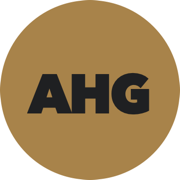
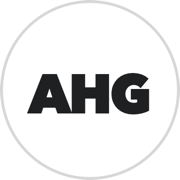
feat(identidad): iso AHG en blanco en vez de bronce; sin etiqueta 'Nueva' en Senzen

diff --git a/frontend/public/manual.html b/frontend/public/manual.html
@@ -20,7 +20,7 @@
 <style>
 /* ─────────────────────────────────────────────────────────
    Manual de Alfalca — hereda la identidad del sistema:
-   gris mate AHG #45484c con acento bronce #a8834a, Nunito para títulos, Inter para texto.
+   gris mate AHG #45484c con el iso en blanco, Nunito para títulos, Inter para texto.
    El acento cálido (dulce de leche) es propio del manual.
    ───────────────────────────────────────────────────────── */
 
@@ -150,7 +150,7 @@ a{ color: var(--violeta); }
 .marca{ display: flex; align-items: center; gap: 14px; }
 .iso{
   width: 46px; height: 46px; border-radius: 50%;
-  background: #a8834a; color: #1f2022;
+  background: #fff; color: #1f2022;
   display: grid; place-items: center;
   font-family: var(--display); font-weight: 800; font-size: 15px; letter-spacing: .04em;
   flex: 0 0 auto;
@@ -335,7 +335,7 @@ dl.glosario dd{ margin: 0; color: var(--tinta-2); font-size: 14.5px; }
 @media (max-width: 640px){ .mock-cuerpo{ grid-template-columns: minmax(0,1fr); } .mock-cuerpo .m-side{ display:none; } }
 .m-side{ background: var(--m-vio); padding: 12px 8px; color: #fff; }
 .m-side .m-marca{ display:flex; align-items:center; gap:8px; padding: 2px 6px 12px; border-bottom: 1px solid rgba(255,255,255,.12); margin-bottom: 8px; }
-.m-side .m-iso{ width: 22px; height: 22px; border-radius: 50%; background:#a8834a; color: #1f2022; display:grid; place-items:center; font-family: var(--display); font-weight: 800; font-size: 8px; }
+.m-side .m-iso{ width: 22px; height: 22px; border-radius: 50%; background:#fff; color: #1f2022; display:grid; place-items:center; font-family: var(--display); font-weight: 800; font-size: 8px; }
 .m-side .m-marca b{ font-family: var(--display); font-size: 11.5px; font-weight: 800; display:block; line-height:1.1; }
 .m-side .m-marca em{ font-style: normal; font-size: 7.5px; letter-spacing:.14em; text-transform: uppercase; color: rgba(255,255,255,.55); }
 .m-side .m-tit{ font-size: 8px; letter-spacing:.14em; text-transform: uppercase; color: rgba(255,255,255,.42); padding: 10px 8px 3px; font-weight: 700; }
@@ -522,7 +522,7 @@ table.m-tabla tr:last-child td{ border-bottom: 0; }
         <div class="mock" style="max-width:340px">
           <div class="mock-bar"><i></i><i></i><i></i><span>alfalca</span></div>
           <div style="padding:34px 26px; display:grid; gap:14px; justify-items:center; background:#ecebe7">
-            <div style="width:46px;height:46px;border-radius:50%;background:#a8834a;color:#1f2022;display:grid;place-items:center;font-family:var(--display);font-weight:800;font-size:14px">AHG</div>
+            <div style="width:46px;height:46px;border-radius:50%;background:#fff;border:1.5px solid rgba(0,0,0,.18);color:#1f2022;display:grid;place-items:center;font-family:var(--display);font-weight:800;font-size:14px">AHG</div>
             <div style="text-align:center">
               <div style="font-family:var(--display);font-weight:800;font-size:15px;color:#1F2937">Alfalca Holding Group</div>
               <div style="font-size:10.5px;color:#9C94A6">Ingresá con tu cuenta</div>

diff --git a/frontend/src/pages/Home.jsx b/frontend/src/pages/Home.jsx
@@ -12,7 +12,7 @@ import logoSenzen   from '../assets/marcas/senzen-blanco.png';
 const MARCAS = [
   { nombre: 'Entre Dos', rubro: 'Tiendas y cafetería', logo: logoEntreDos, fondo: '#000000' },
   { nombre: 'Kankay',    rubro: 'Retail',              logo: logoKankay,   fondo: '#000000' },
-  { nombre: 'Senzen',    rubro: 'Hogar',               logo: logoSenzen,   fondo: '#000000', alto: 68, nueva: true },
+  { nombre: 'Senzen',    rubro: 'Hogar',               logo: logoSenzen,   fondo: '#000000', alto: 68 },
 ];
 
 const DIAS  = ['domingo', 'lunes', 'martes', 'miércoles', 'jueves', 'viernes', 'sábado'];
@@ -146,11 +146,6 @@ export default function Home() {
                 <p className="font-bold text-ahg-text" style={{ fontFamily: 'Nunito, sans-serif' }}>{m.nombre}</p>
                 <p className="text-xs text-ahg-text/50">{m.rubro}</p>
               </div>
-              {m.nueva && (
-                <span className="text-[10px] font-semibold uppercase tracking-wider text-ahg-bronce bg-ahg-bronce/10 rounded-full px-2 py-0.5">
-                  Nueva
-                </span>
-              )}
             </div>
           </div>
         ))}

diff --git a/frontend/index.html b/frontend/index.html
@@ -4,9 +4,9 @@
     <meta charset="UTF-8" />
     <meta name="viewport" content="width=device-width, initial-scale=1.0" />
     <title>Alfalca Holding Group</title>
-    <link rel="icon" type="image/svg+xml" href="/favicon.svg?v=2" />
-    <link rel="icon" type="image/png" sizes="32x32" href="/favicon-32.png?v=2" />
-    <link rel="apple-touch-icon" href="/apple-touch-icon.png?v=2" />
+    <link rel="icon" type="image/svg+xml" href="/favicon.svg?v=3" />
+    <link rel="icon" type="image/png" sizes="32x32" href="/favicon-32.png?v=3" />
+    <link rel="apple-touch-icon" href="/apple-touch-icon.png?v=3" />
     <link rel="preconnect" href="https://fonts.googleapis.com" />
     <link rel="preconnect" href="https://fonts.gstatic.com" crossorigin />
     <link href="https://fonts.googleapis.com/css2?family=Inter:wght@400;500;600;700&family=Nunito:wght@400;500;600;700;800&display=swap" rel="stylesheet" />

diff --git a/frontend/src/pages/Login.jsx b/frontend/src/pages/Login.jsx
@@ -31,7 +31,7 @@ export default function Login() {
     <div className="min-h-screen flex items-center justify-center bg-ahg-bg px-4">
       <div className="w-full max-w-sm">
         <div className="text-center mb-8">
-          <img src={logo} alt="AHG" className="w-16 h-16 mx-auto mb-4 rounded-full" />
+          <img src={logo} alt="AHG" className="w-16 h-16 mx-auto mb-4 rounded-full shadow-sm" />
           <h1 className="text-2xl font-bold text-ahg-text" style={{ fontFamily: 'Nunito, sans-serif' }}>Alfalca Holding Group</h1>
           <p className="text-ahg-text/50 text-sm mt-1">Ingresá con tu cuenta</p>
         </div>

diff --git a/frontend/src/pages/red/RedDashboard.jsx b/frontend/src/pages/red/RedDashboard.jsx
@@ -79,8 +79,8 @@ export default function RedDashboard() {
           </div>
 
           {badgeTexto ? (
-            <span className="flex items-center gap-1.5 bg-ahg-bronce text-white text-xs font-semibold px-3 py-1.5 rounded-full flex-shrink-0">
-              <span className="w-1.5 h-1.5 rounded-full bg-white animate-pulse" />
+            <span className="flex items-center gap-1.5 bg-white text-ahg-text text-xs font-semibold px-3 py-1.5 rounded-full flex-shrink-0">
+              <span className="w-1.5 h-1.5 rounded-full bg-emerald-600 animate-pulse" />
               {badgeTexto}
             </span>
           ) : (

diff --git a/frontend/tailwind.config.js b/frontend/tailwind.config.js
@@ -27,7 +27,6 @@ export default {
         'ahg-primary':   '#45484c',   // menú, cabeceras, botones
         'ahg-secondary': '#6b6e72',   // hover, texto secundario (Nardo)
         'ahg-accent':    '#c3c2bd',   // bordes, foco
-        'ahg-bronce':    '#a8834a',   // único acento: badges, logo
         'ahg-bg':        '#ecebe7',   // fondo de pantalla (Chalk)
         'ahg-text':      '#1f2022',
       },
